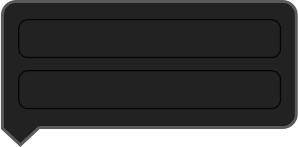
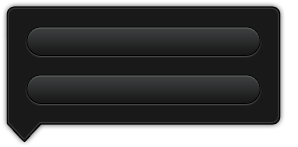
Improved the style in the people picker view. And fixed an error where hidden cells will result in a crash (now the 'selectedPeople' set contains directly all the player names)

diff --git a/LotteryMe/PeoplePickerViewController.m b/LotteryMe/PeoplePickerViewController.m
@@ -125,7 +125,7 @@
         
         // This cell gets deselected
         selectedCell.accessoryType = UITableViewCellAccessoryNone;
-        [self.selectedPeople removeObject:indexPath];
+        [self.selectedPeople removeObject:selectedCell.textLabel.text];
     } else {
         
         // This cell get selected
@@ -139,7 +139,7 @@
             
             // mark this cell checked
             selectedCell.accessoryType = UITableViewCellAccessoryCheckmark;
-            [self.selectedPeople addObject:indexPath];
+            [self.selectedPeople addObject:selectedCell.textLabel.text];
         }
     }
 }
@@ -154,12 +154,7 @@
         return;
     }
     
-    NSMutableSet *player = [[NSMutableSet alloc] init];
-    for (NSIndexPath *index in self.selectedPeople) {
-        [player addObject:[self.tableView cellForRowAtIndexPath:index].textLabel.text];
-    }
-    
-    [self.nextController setPlayer:player.allObjects];
+    [self.nextController setPlayer:self.selectedPeople.allObjects];
     [self.navigationController pushViewController:self.nextController animated:YES];
 }
 
@@ -189,8 +184,10 @@
 - (void)alertView:(UIAlertView *)alertView clickedButtonAtIndex:(NSInteger)buttonIndex{ 
     if(buttonIndex == 1) {
         NSString *playerName = [[alertView textFieldAtIndex:0] text];
-        [PlayerList.instance addPlayer:playerName];
-        [self.tableView reloadData];
+        if([playerName length] > 0) {
+            [PlayerList.instance addPlayer:playerName];
+            [self.tableView reloadData];
+        }
     }
     
     [self displayPopoverView:NO];
